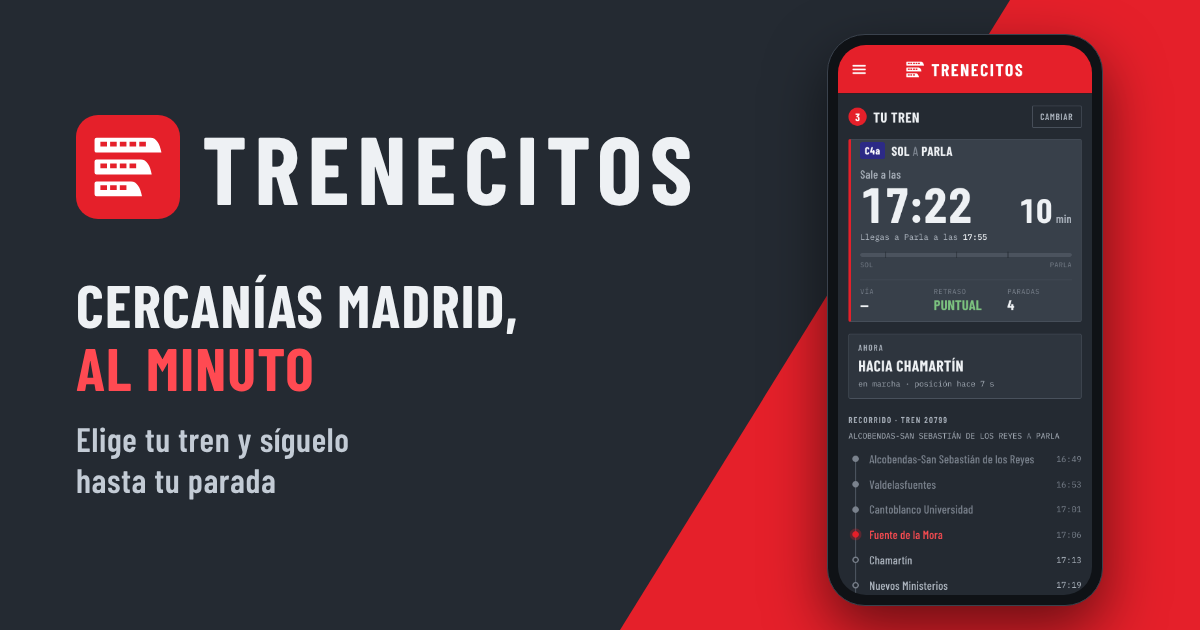
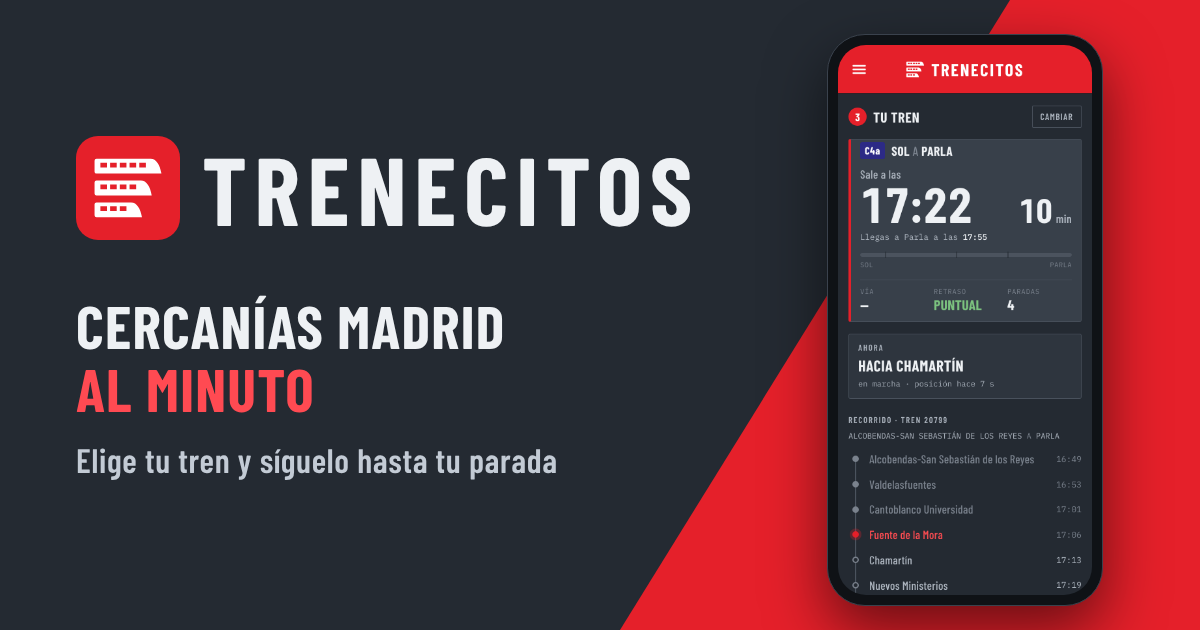
Vista previa: subtítulo en una línea y sin coma en el eslogan
Claude-Session: https://claude.ai/code/session_01XLSZweWBaZnbtfzxbgLFJy

Changed region(s): [[0.0617, 0.4524, 0.4625, 0.7841], [0.0617, 0.181, 0.5858, 0.3921]]

diff --git a/index.html b/index.html
@@ -12,7 +12,7 @@
 <meta property="og:title" content="Trenecitos · ¿Llegas al tren?">
 <meta property="og:description" content="Cercanías Madrid en tiempo real: elige tu tren para saber cuándo llega">
 <meta property="og:url" content="https://trenecitos.pages.dev/">
-<meta property="og:image" content="https://trenecitos.pages.dev/img/og.png?v=3">
+<meta property="og:image" content="https://trenecitos.pages.dev/img/og.png?v=4">
 <meta property="og:image:type" content="image/png">
 <meta property="og:image:width" content="1200">
 <meta property="og:image:height" content="630">
@@ -20,7 +20,7 @@
 <meta name="twitter:card" content="summary_large_image">
 <meta name="twitter:title" content="Trenecitos · ¿Llegas al tren?">
 <meta name="twitter:description" content="Cercanías Madrid en tiempo real: elige tu tren para saber cuándo llega">
-<meta name="twitter:image" content="https://trenecitos.pages.dev/img/og.png?v=3">
+<meta name="twitter:image" content="https://trenecitos.pages.dev/img/og.png?v=4">
 <link rel="manifest" href="manifest.webmanifest">
 <link rel="canonical" href="https://trenecitos.pages.dev/">
 <link rel="icon" href="favicon.ico" sizes="any">
